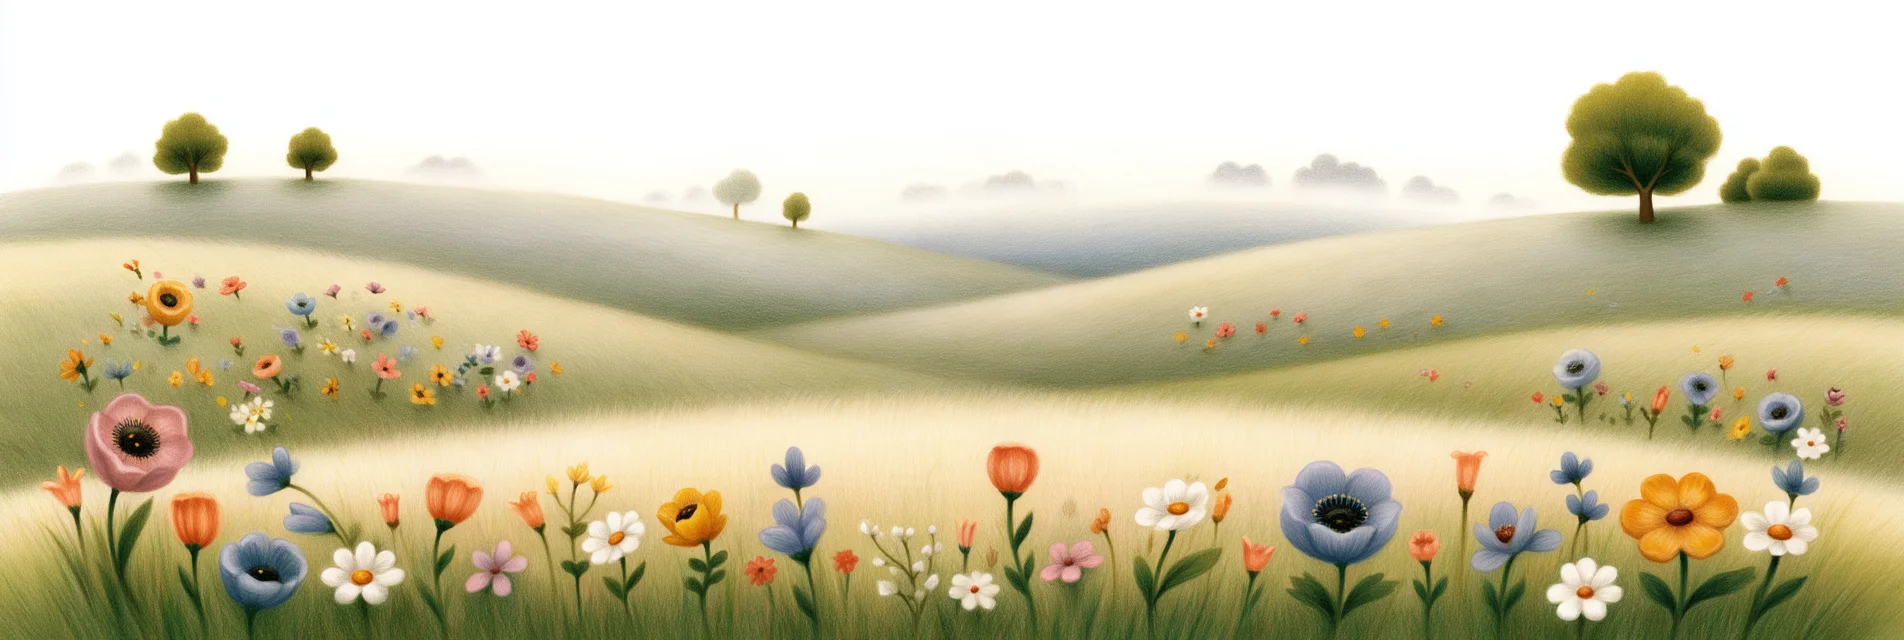
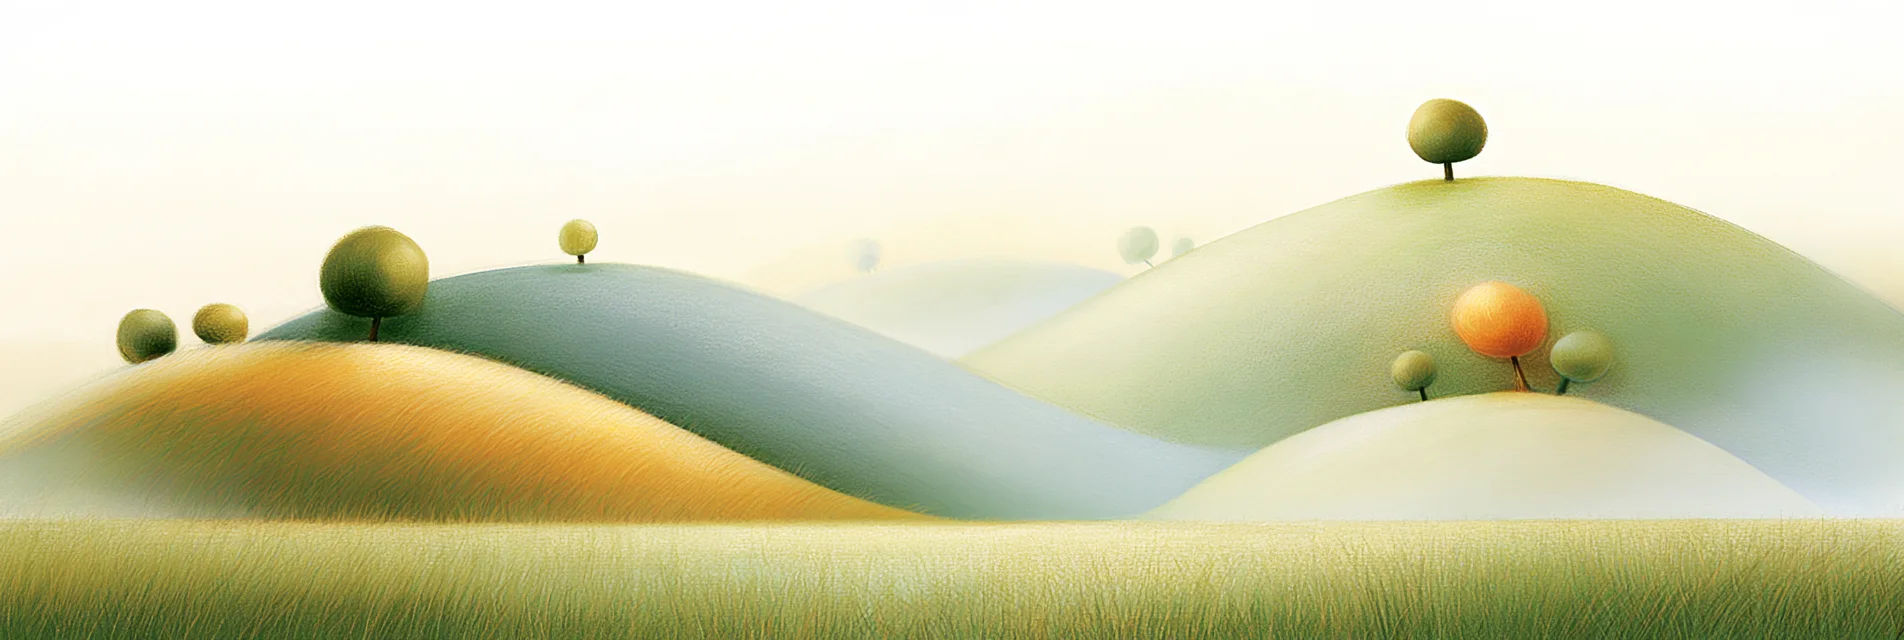
풀만 있는 언덕 그림과 미드저니 별밤으로 교체 (언덕에 꽃이 그려져 있었고, 꿈 배경은 임시 별밤이었음)
- 꿈 배경 아래쪽이 밝아서 글자가 읽히도록 아래로 갈수록 짙은 밤색을 덮음

Claude-Session: https://claude.ai/code/session_01QKzLC918QeyXDkZdh2oYDq

diff --git a/css/style.css b/css/style.css
@@ -275,11 +275,13 @@ html,body{background:var(--cream)}
    밤하늘 그림은 assets/meadow/night.webp (지금은 임시로 만든 별밤. 미드저니 그림으로 교체 예정) */
 #ink{
   --ink:#f3ecdc; --muted:#b9b2c8;
-  background:#141a33 url(../assets/meadow/night.webp) 50% 0 / cover fixed!important;
+  /* 밤하늘 그림 아래쪽이 밝아서, 글자가 읽히도록 아래로 갈수록 짙은 밤색을 덮음 */
+  background:linear-gradient(180deg,rgba(12,26,30,.15) 0%,rgba(12,26,30,.35) 45%,rgba(14,24,30,.72) 100%) fixed,
+    #10232a url(../assets/meadow/night.webp) 50% 0 / cover fixed!important;
   color:var(--ink);
 }
 #ink .blob{mix-blend-mode:screen;opacity:.55}
-#ink .blob.b2{background:radial-gradient(circle at 50% 50%,rgba(120,140,220,.30),transparent 65%)}
+#ink .blob.b2{background:radial-gradient(circle at 50% 50%,rgba(120,190,180,.26),transparent 65%)}
 #ink .fnote{border-top-color:rgba(243,236,220,.22)}
 #ink .tags span{background:rgba(243,236,220,.12);color:#efe6d2}
 #ink .actions a,#ink .actions button.ghost{border-color:rgba(243,236,220,.4);color:var(--ink)}
